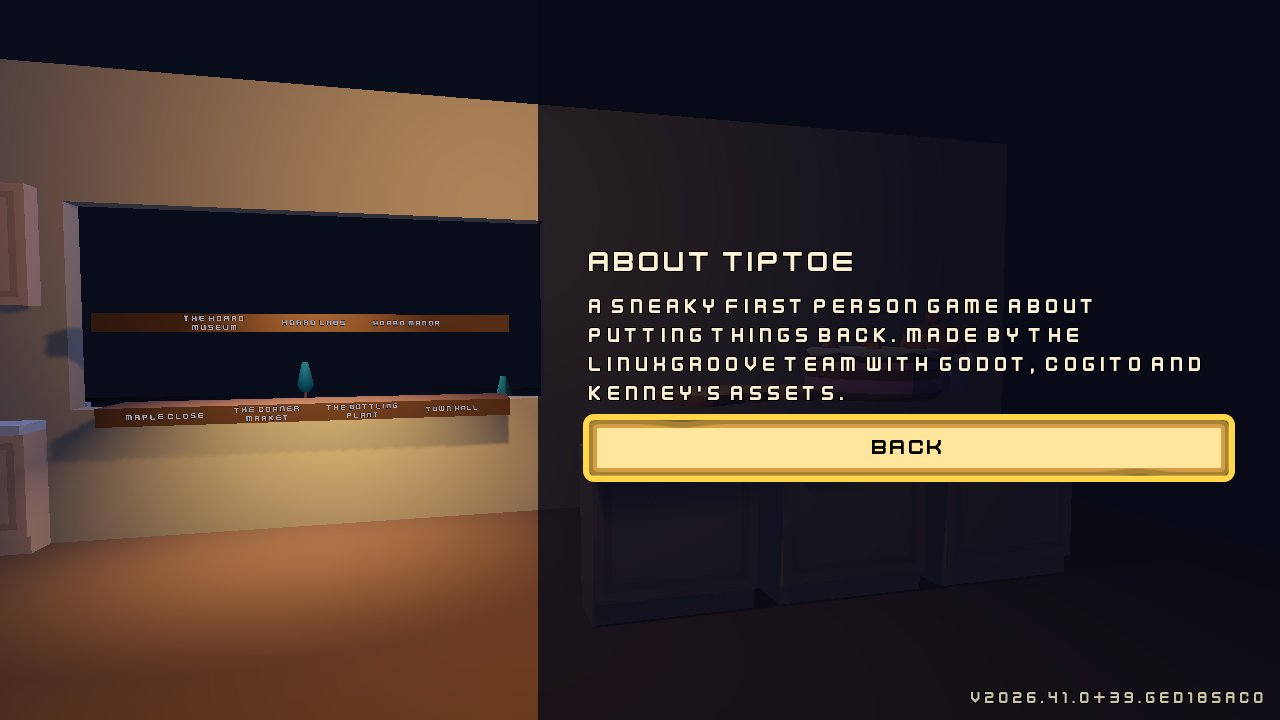
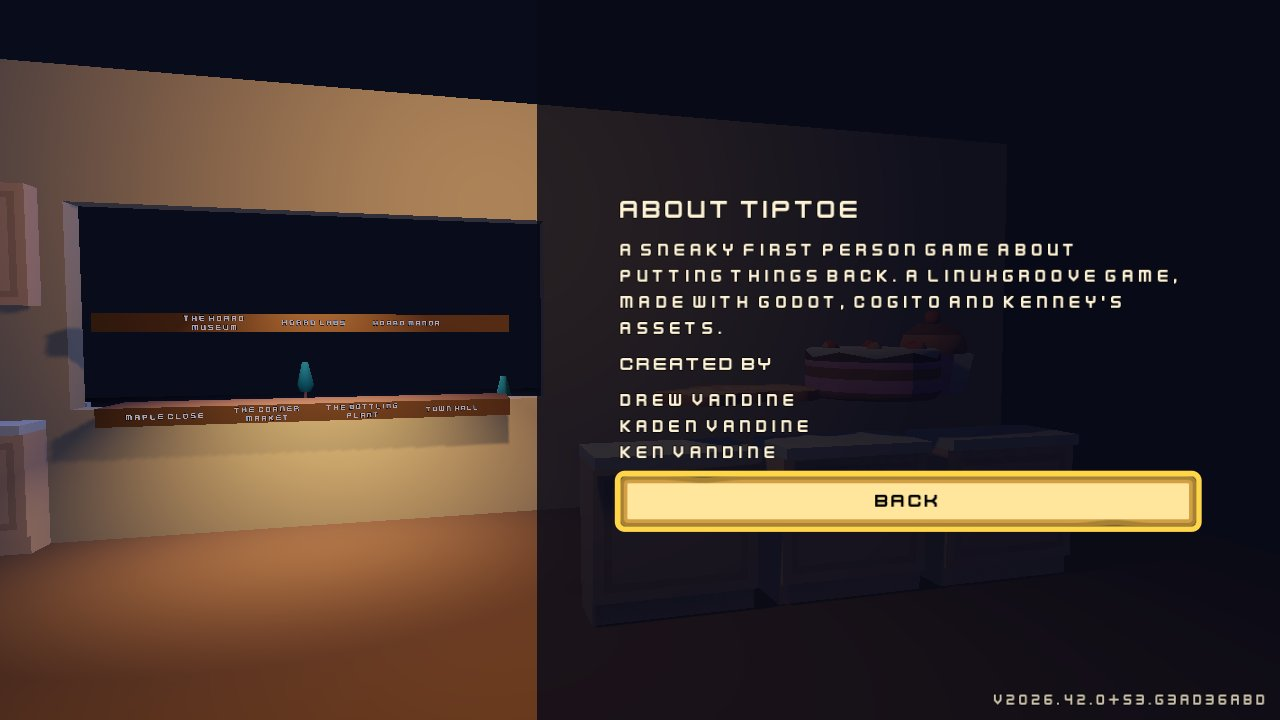
About now credits Drew, Kaden and Ken VanDine
Claude-Session: https://claude.ai/code/session_01DpnPnXD9tsBULXmuHQ3GGR

Changed region(s): [[0.4375, 0.3361, 0.9688, 0.7639], [0.75, 0.9472, 1.0, 0.9778], [0.4688, 0.275, 0.6875, 0.3056]]

diff --git a/CREDITS.md b/CREDITS.md
@@ -1,6 +1,6 @@
 # Credits
 
-Made by the LinuxGroove team.
+Made by Drew, Kaden, and Ken VanDine, the LinuxGroove team.
 
 ## Art and audio
 
